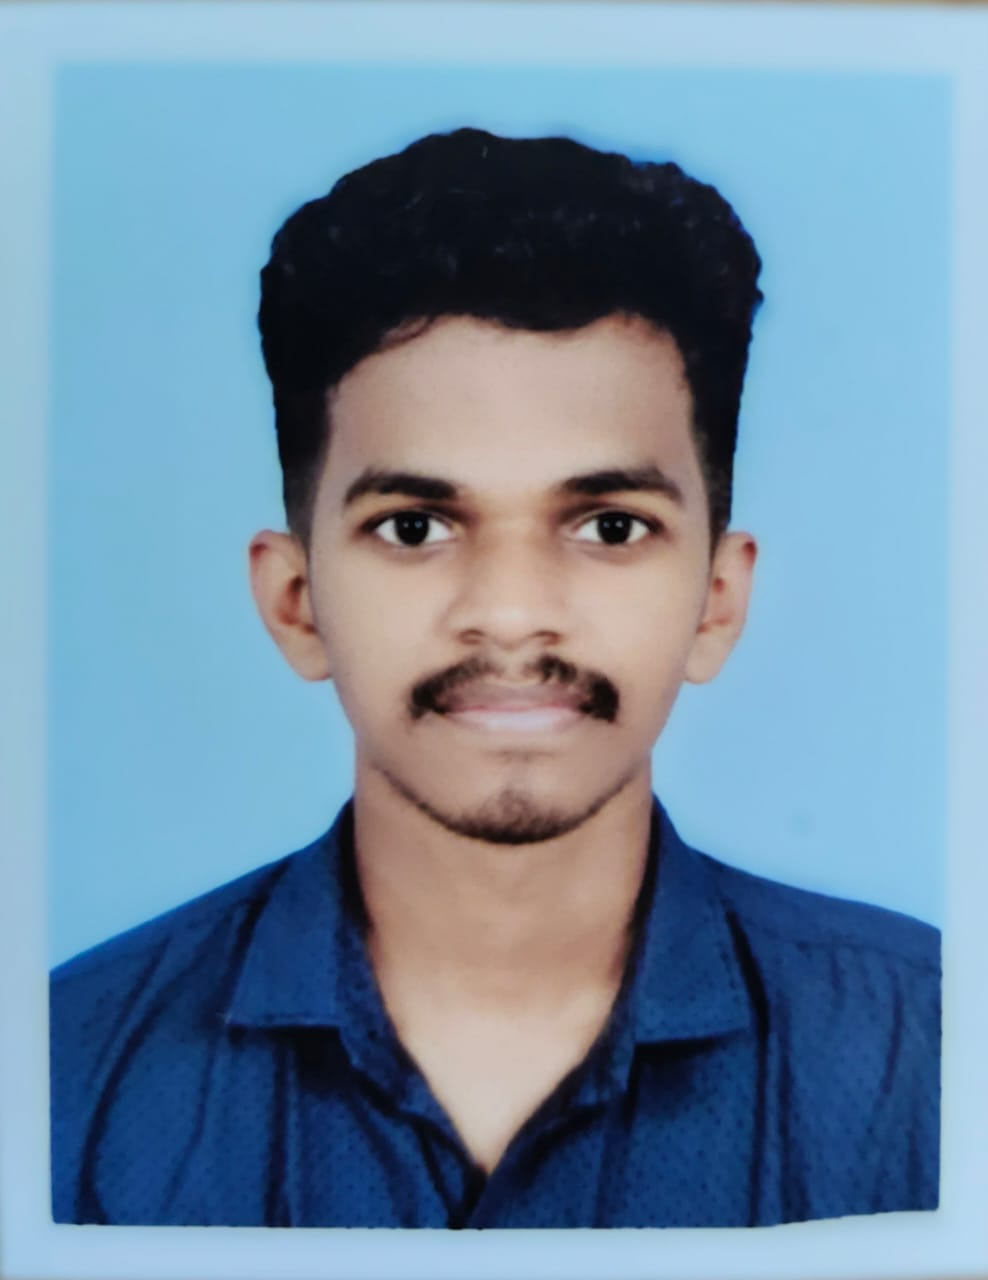
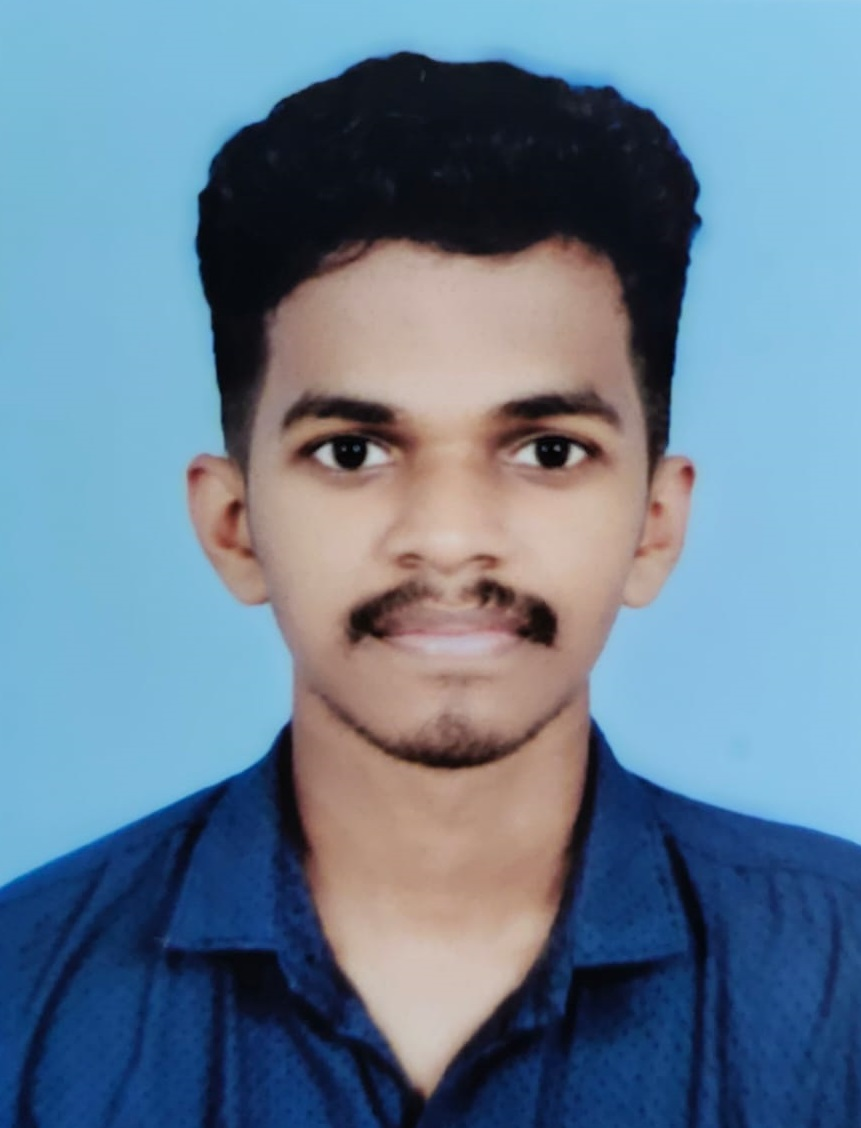
v3.1

diff --git a/src/components/About/Skills.tsx b/src/components/About/Skills.tsx
@@ -1,6 +1,8 @@
 "use client";
 
 import { motion } from "framer-motion";
+import { GrMysql } from "react-icons/gr";
+
 import {
   FaReact,
   FaNodeJs,
@@ -10,6 +12,7 @@ import {
   FaHtml5,
   FaCss3Alt,
 } from "react-icons/fa";
+import { BiLogoFlask } from "react-icons/bi";
 import {
   SiNextdotjs,
   SiTypescript,
@@ -75,6 +78,16 @@ const Skills = () => {
       name: "MongoDB",
       category: "Backend",
       icon: <SiMongodb className="text-[#47A248]" />,
+    },
+    {
+      name: "Flask",
+      category: "Backend",
+      icon: <BiLogoFlask className="text-[#ffff]" />,
+    },
+    {
+      name: "MySQL",
+      category: "Backend",
+      icon: <GrMysql className="text-[#ffff]" />,
     },
     {
       name: "REST APIs",

diff --git a/src/components/Projects/ProjectCard.tsx b/src/components/Projects/ProjectCard.tsx
@@ -30,11 +30,10 @@ const ProjectCard = ({
         {/* Image Section */}
         <div className="relative w-full md:w-[40%] h-[200px] md:h-auto overflow-hidden">
           <Image
-          sizes="auto auto"
             src={imageUrl}
             alt={header}
             fill
-            className="object-cover group-hover:scale-110 transition-transform duration-700"
+            className=" group-hover:scale-110 transition-transform duration-700"
           />
           <div className="absolute inset-0 bg-gradient-to-t from-black/50 to-transparent" />
         </div>

diff --git a/src/components/Intro.tsx b/src/components/Intro.tsx
@@ -132,7 +132,7 @@ const Intro = () => {
               src="/me/photo.jpg"
               alt="Sreyas B Anand"
               fill
-              className="object-cover group-hover:scale-105 transition-all duration-500"
+              className="object-fill group-hover:scale-105 transition-all duration-500"
               sizes="auto auto"
             />
             </Suspense>
